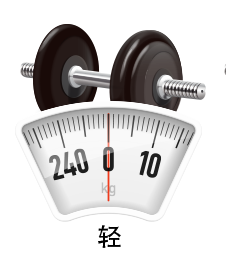
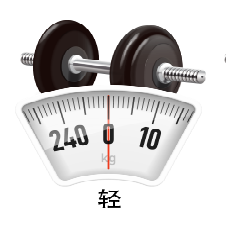
11

diff --git a/wechat/Content/yamaha/css/style.css b/wechat/Content/yamaha/css/style.css
@@ -23,7 +23,7 @@ a:hover{text-decoration:none;color:#000;}
 form{width:81%;height: auto;margin:80px 0 0 70px;border:none}
 form input[type=radio]{position:absolute;display: none;}
 form input[type=radio]+label{display:block;position:absolute;width:auto;height:auto;font-size:20px;}
-form input[type=radio]:checked+label{display:block;background-size:100% 100%;z-index: 2;width: 260px;height:260px;top:678px;margin-left: -39px;}
+form input[type=radio]:checked+label{display:block;background-size:100% auto;z-index: 2;width: 260px;height:260px;top:678px;margin-left: -39px;}
 form .nextbtn{display:block;position: absolute;width: 403px;height: 161px;background: url("../image/nextbtn.png") no-repeat;top: 945px;left:171px;border: none;outline: none; }
 .t4wrap form .t4a{display: block;width: 176px;height: 154px;background: url("../image/t4a.png") no-repeat;top:725px;left: 81px;}
 .t4wrap form .t4b{display: block;width: 176px;height: 154px;background: url("../image/t4b.png") no-repeat;top:725px;left: 293px;}
@@ -48,9 +48,9 @@ form .nextbtn{display:block;position: absolute;width: 403px;height: 161px;backgr
 .t5wrap form .t5b{display: block;width: 188px;height: 223px;background: url("../image/t5b.png") no-repeat;top:700px;left: 293px;}
 .t5wrap form .t5c{display: block;width: 188px;height: 223px;background: url("../image/t5c.png") no-repeat;top:700px;left: 500px;}
 /*t6*/
-.t6wrap form .t6a{display: block;width: 226px;height: 271px;background: url("../image/t6a.png") no-repeat;top:700px;left: 50px;}
-.t6wrap form .t6b{display: block;width: 226px;height: 271px;background: url("../image/t6b.png") no-repeat;top:700px;left: 265px;}
-.t6wrap form .t6c{display: block;width: 226px;height: 271px;background: url("../image/t6c.png") no-repeat;top:700px;left: 482px;}
+.t6wrap form .t6a{display: block;width: 226px;height: 226px;background: url("../image/t6a.png") no-repeat;top:695px;left: 50px;}
+.t6wrap form .t6b{display: block;width: 226px;height: 226px;background: url("../image/t6b.png") no-repeat;top:695px;left: 265px;}
+.t6wrap form .t6c{display: block;width: 226px;height: 226px;background: url("../image/t6c.png") no-repeat;top:695px;left: 482px;}
 /*t7*/
 .t7wrap form .t7a{display: block;width: 188px;height:271px;background: url("../image/t7a.png") no-repeat;top:655px;left: 81px;}
 .t7wrap form .t7b{display: block;width: 188px;height:271px;background: url("../image/t7b.png") no-repeat;top:655px;left: 293px;}
